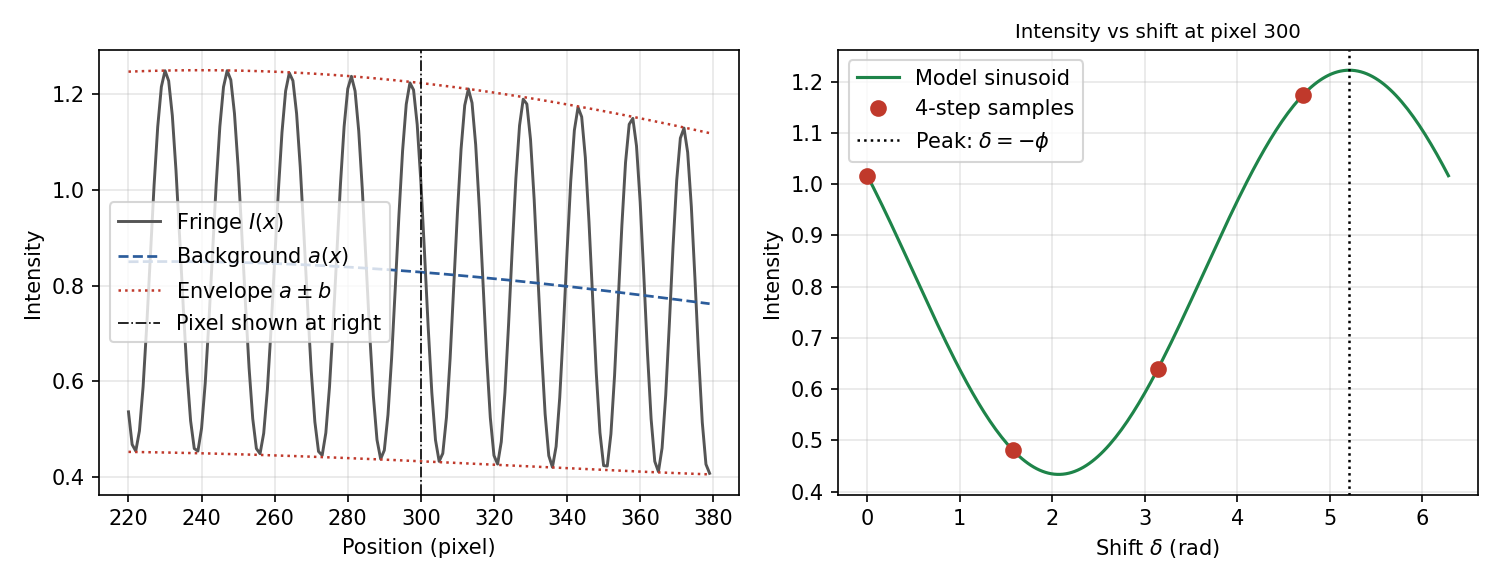
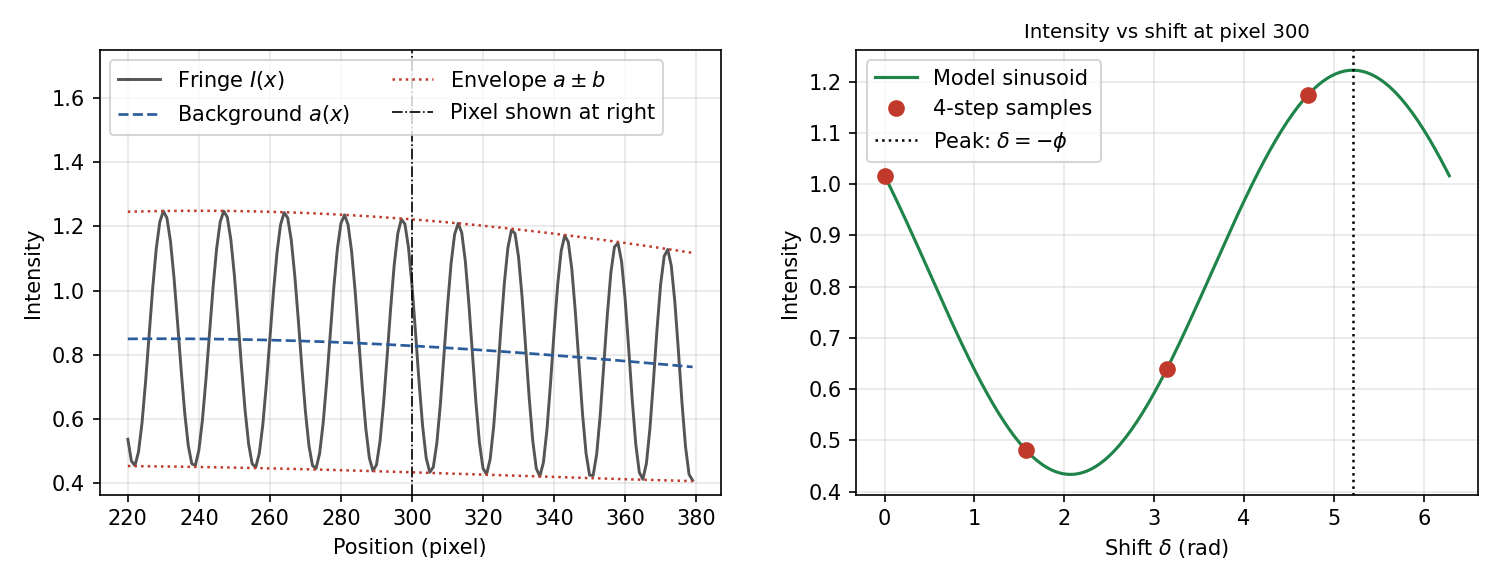
fix(post): imgproc-phase-hilbert-unwrapping — 그림 다시 생성(범례·라벨 겹침, 그림 속 번호·캡션 제거)
그림을 다시 그려야 고칠 수 있던 경미 항목을 고쳤다. 데이터와 계산은 바꾸지 않았다.

근거: _references/imgproc-phase-hilbert-unwrapping/audit-20261015.md (B 경미), 목록 _references/_fig-queue-20261015.md

diff --git a/_code/imgproc-phase-hilbert-unwrapping/generate_figures.py b/_code/imgproc-phase-hilbert-unwrapping/generate_figures.py
@@ -27,7 +27,7 @@ LABELS = {
         "clean": "배경을 빼고 계산한 위상 오차", "perr": "위상 오차 (rad)",
         "noise_ax": "프레임 노이즈", "rms": "위상 오차 RMS (rad)",
         "m_h": "힐베르트 (1장)", "m_f": "푸리에 (1장)", "m_p4": "위상천이 (4장)",
-        "band_ax": "측대역 폭 ($f_0$ 단위)", "e_noise": "노이즈 하 오차 (노이즈 0.05)",
+        "band_ax": "측대역 폭 ($f_0$ 단위)", "e_noise": "노이즈 0.05에서의 오차",
         "e_shape": "노이즈 없음, 형상이 급한 구간의 오차",
         "eps": "천이량 오차 $\\varepsilon$", "s3": "3단계", "s4": "4단계",
         "s5": "5단계 최소자승", "sh": "Hariharan 5단계",
@@ -210,7 +210,8 @@ def draw(L):
     ax[0].plot(X[sl], (A0 - B0)[sl], ":", lw=1.2, color="#c0392b")
     ax[0].axvline(PIX, color="k", lw=0.8, ls="-.", label=L["pixmark"])
     ax[0].set_xlabel(L["pos"], **F); ax[0].set_ylabel(L["inten"], **F)
-    ax[0].legend(prop=LG, fontsize=8); ax[0].grid(alpha=0.3)
+    ax[0].set_ylim(top=1.75)   # 위쪽 여백에 범례를 둬 무늬와 배경선을 가리지 않게 한다
+    ax[0].legend(prop=LG, fontsize=8, ncol=2, loc="upper left"); ax[0].grid(alpha=0.3)
     ax[1].plot(dfine, Ipix, "-", lw=1.5, color="#1e8449", label=L["fitted"])
     ax[1].plot(SH4, Ipix4, "o", ms=7, color="#c0392b", label=L["samples"])
     ax[1].axvline((-PHI[PIX]) % (2 * np.pi), ls=":", lw=1.2, color="k", label=L["phi_here"])
